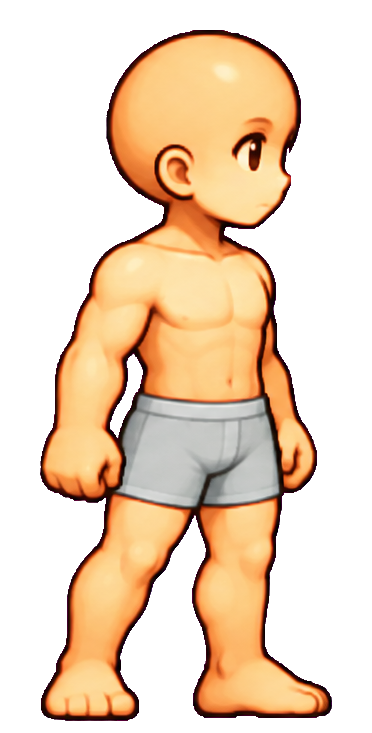
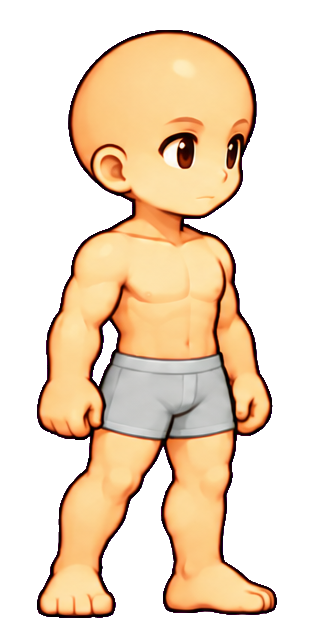
Base character (male): the new MapleStory-view boy — standing, a 4-frame walk (legs and arms alternate; the run plays it faster) and the 3-frame combat stance
- tools/base/naked_frames.py + sheets/naked_male.json: GPT drawings -> body/naked/<gender>/<move>.png strips (head / body matched in size across drawing sessions, hips on one x, feet on the ground; 'swap' gives the other leg's step); src/data/naked-anims.json lists each gender's drawn moves (anything else shows him standing).
- Combat stance (MapleStory 'alert'): after an attack or a hit he holds it for 4 s while standing still, 0.5 s a frame.
- Menus / portraits: the new boy's standing figure.

Claude-Session: https://claude.ai/code/session_019q8CMrxghbNzj8w42KsHoP

diff --git a/src/game/Body.ts b/src/game/Body.ts
@@ -98,7 +98,7 @@ export function preloadBodies(scene: Phaser.Scene, classes?: readonly string[], 
       LS(skillKey(cls, s.id), skillPath(cls, s.id)); M(`${skillKey(cls, s.id)}-w`, skillPath(cls, s.id), cls, cs?.w ?? CELL, cs?.h ?? CELL); if (cls === 'warrior') SHEET_PATH[skillKey(cls, s.id)] = skillPath(cls, s.id); }
   }
   for (const [cls, a] of Object.entries(ATLAS)) { if (!want(cls)) continue; L(atlasKey(cls), a.sheet, false); M(`${atlasKey(cls)}-w`, a.sheet, cls, 0, 0, true); }
-  if (want('warrior')) for (const g of ['male', 'female']) L(nakedKey(g), `assets/final/body/naked/${g}/idle.png`, true);
+  if (want('warrior')) for (const [g, anims] of Object.entries(NAKED)) for (const anim of Object.keys(anims)) L(nakedKey(g, anim), `assets/final/body/naked/${g}/${anim}.png`, true);
   if (want('warrior')) for (const anim of BASE_ANIMS) {
     const k = baseKey(anim); L(k, basePath(anim), true); M(`${k}-w`, basePath(anim), 'warrior'); SHEET_PATH[k] = basePath(anim);
     const cs = CELLS[anim], skill = !(anim in MOVE_COLS), W = cs?.w ?? CELL, H = cs?.h ?? CELL;
@@ -160,13 +160,21 @@ const animOf = (path: string) => (path.includes('/skills/') ? path.split('/').sl
 /** Base-sheet geometry: the original sheet's cell (W×H, cols) the 352-cells were cut from, for mask/layer remapping. */
 export const BASE_GEOM: Record<string, { W: number; H: number; cols: number; orig: string; ox: number; oy: number }> = {};
 let BASE_MODE = false;
-/** The clean base character (no hair / clothes / weapon), male or female — one standing frame until its moves are drawn. */
-const nakedKey = (g: string) => `naked-${g}-idle`;
+/** The clean base character (no hair / clothes / weapon), male or female. Its drawn moves are listed per gender in
+ *  naked-anims.json (tools/base/naked_frames.py); every other move shows him / her standing until it is drawn.
+ *  The run plays the walk frames faster. */
+import NAKED_LIST from '../data/naked-anims.json';
+const NAKED = NAKED_LIST as Record<string, Record<string, number>>;
+const nakedKey = (g: string, anim = 'idle') => `naked-${g}-${anim}`;
 const NAKED_HEAD_DROP = 10; // his bald head top sits this much (cell px) lower than the beginner's hair top
-function nakedPose(cls: string, dir: Dir, g: 'male' | 'female'): PoseFrame {
+function nakedPose(cls: string, dir: Dir, g: 'male' | 'female', q: PoseQuery): PoseFrame {
   const f = sheetPose(cls, dir, { k: 'loop', state: 'idle', t: 0, speed: 0 }); // the standing beginner's anchors (head, chest)
-  const key = nakedKey(g);
-  return { ...f, key, frame: 0, wkey: `${key}-w`, blade: null, bladeBehind: false, hair: null, head: null,
+  const has = NAKED[g] ?? {};
+  let key = nakedKey(g), frame = 0;
+  if (q.k === 'loop' && (q.state === 'walk' || q.state === 'run') && has.walk) {
+    const c = baseLoop(q.state, q.speed); key = nakedKey(g, 'walk'); frame = Math.floor((q.t * c.fps) / 1000) % has.walk;
+  } else if (q.k === 'loop' && q.state === 'alert' && has.alert) { key = nakedKey(g, 'alert'); frame = Math.floor(q.t / 500) % has.alert; } // 0.5 s a frame (Maple)
+  return { ...f, key, frame, wkey: `${key}-w`, blade: null, bladeBehind: false, hair: null, head: null,
     anchor: f.anchor ? f.anchor.map((v, i) => (i === 1 ? v + NAKED_HEAD_DROP * SHEET_SCALE : v)) : null };
 }
 /** Base body available for this animation (sheet baked)? */
@@ -212,7 +220,7 @@ const atlasCount = (cls: string, dir: Dir, act: AtlasAction) => ATLAS[cls].direc
 // ------------------------------------------------------------------ pose queries
 
 export type PoseQuery =
-  | { k: 'loop'; state: 'idle' | 'walk' | 'run'; t: number; speed: number }
+  | { k: 'loop'; state: 'idle' | 'walk' | 'run' | 'alert'; t: number; speed: number } // alert: combat stance after an attack / a hit (MapleStory)
   | { k: 'jump'; phase: 'takeoff' | 'rise' | 'apex' | 'fall' | 'land'; t: number }
   | { k: 'airAttack'; p: number }
   | { k: 'hurt'; p: number }
@@ -232,18 +240,21 @@ export const baseLoop = (state: 'walk' | 'run', speed: number): { n: number; fps
 const pick = <T,>(list: T[], p: number): T => list[Math.max(0, Math.min(list.length - 1, Math.floor(p * list.length)))];
 
 /** base = draw the beginner-clothes base body (fashion cosmetics) instead of the class armour, where baked. */
+/** Pose query once the combat stance is folded into standing (bodies without stance frames). */
+type BodyQuery = Exclude<PoseQuery, { k: 'loop' }> | { k: 'loop'; state: 'idle' | 'walk' | 'run'; t: number; speed: number };
 export function resolvePose(cls: ClassKey, dir: Dir, q: PoseQuery, base = false, gender?: 'male' | 'female'): PoseFrame {
   BASE_MODE = base && cls === 'warrior';
   try {
-    if (BASE_MODE && gender) return nakedPose(cls, dir, gender); // the clean base character
-    return isSheetClass(cls) ? sheetPose(cls, dir, q) : atlasPoseFor(cls, dir, q);
+    if (BASE_MODE && gender) return nakedPose(cls, dir, gender, q); // the clean base character
+    const b: BodyQuery = q.k === 'loop' && q.state === 'alert' ? { ...q, state: 'idle' } : (q as BodyQuery);
+    return isSheetClass(cls) ? sheetPose(cls, dir, b) : atlasPoseFor(cls, dir, b);
   } finally { BASE_MODE = false; }
 }
 
 const moveCols = (cls: string, st: MoveState) => (st === 'air_attack' && cls === 'warrior' ? 8 : MOVE_COLS[st]);
 function mv(cls: string, st: MoveState, dir: Dir, col: number): PoseFrame { return sheetFrame(sheetKey(cls, st), sheetPath(cls, st), dir, col, moveCols(cls, st)); }
 
-function sheetPose(cls: string, dir: Dir, q: PoseQuery): PoseFrame {
+function sheetPose(cls: string, dir: Dir, q: BodyQuery): PoseFrame {
   switch (q.k) {
     case 'loop': {
       if (q.state === 'idle') { // agreed look: the body never breathes / grows / shrinks — one still frame (separately painted idle frames flicker)
@@ -357,7 +368,7 @@ const CHAIN_SEQ: Record<string, Seq[]> = {
 };
 const MIN_ACTIVE = 110;
 
-function atlasPoseFor(cls: string, dir: Dir, q: PoseQuery): PoseFrame {
+function atlasPoseFor(cls: string, dir: Dir, q: BodyQuery): PoseFrame {
   switch (q.k) {
     case 'loop': {
       const fps = q.state === 'idle' ? 5 : q.state === 'walk' ? 8 * Math.max(0.7, Math.min(1.2, q.speed / 188)) : 10 * Math.max(0.75, Math.min(1.15, q.speed / 270));

diff --git a/src/scenes/LegacyCourtyardScene.ts b/src/scenes/LegacyCourtyardScene.ts
@@ -76,6 +76,9 @@ const ENEMY_SKILL: FinalSkill = {
   pvpMultiplier: 1, pveMultiplier: 1, description: '', unlockLevel: 1, relations: [],
 };
 
+/** How long he keeps the combat stance after an attack / a hit while standing still (MapleStory: a few seconds). */
+const ALERT_MS = 4000;
+
 export class LegacyCourtyardScene extends Phaser.Scene {
   // ---- local actor (read by QA)
   kin!: Kin;
@@ -379,6 +382,8 @@ export class LegacyCourtyardScene extends Phaser.Scene {
 
   busy(): boolean { return this.dead >= 0 || !this.body.canAct(this.simMs) || this.rt?.locked() === true; }
 
+  /** Combat stance until (sim ms): set by attacks and hits, shown while standing still. */
+  private alertUntil = -1;
   private setMode(m: Mode): void { if (m !== this.mode) { this.mode = m; this.modeT = 0; } }
 
   private stepPlayer(ms: number, now: number): void {
@@ -641,8 +646,11 @@ export class LegacyCourtyardScene extends Phaser.Scene {
 
   private renderPlayer(ms: number): void {
     const v = this.view!, k = this.kin, run = this.rt?.ownRun;
+    // MapleStory: after an attack or a hit he keeps the combat stance a few seconds while standing still
+    if (this.mode === 'skill' || this.mode === 'recover' || this.mode === 'hurt' || this.mode === 'launched' || this.mode === 'down' || this.mode === 'getup') this.alertUntil = this.simMs + ALERT_MS;
+    const mode = this.mode === 'idle' && this.simMs < this.alertUntil ? 'alert' : this.mode;
     const snap: AnimSnap = {
-      mode: this.mode, t: this.mode === 'walk' || this.mode === 'run' || this.mode === 'idle' ? this.loopT : this.modeT,
+      mode, t: this.mode === 'walk' || this.mode === 'run' || this.mode === 'idle' ? this.loopT : this.modeT,
       speed: Math.hypot(k.vx, k.vy), vz: k.vz, stunMs: 220,
       skill: run ? { id: run.skill.id, stage: run.stage, elapsed: run.elapsed, ...run.timings } : undefined,
     };

diff --git a/src/game/PoseState.ts b/src/game/PoseState.ts
@@ -3,7 +3,7 @@
 // rise → apex → fall → landing, hit → hurt, launch → air hurt → knockdown → getup.
 import { PoseQuery } from './Body';
 
-export type Mode = 'idle' | 'walk' | 'run' | 'takeoff' | 'air' | 'land' | 'skill' | 'recover' | 'hurt' | 'launched' | 'down' | 'getup' | 'dead';
+export type Mode = 'idle' | 'alert' | 'walk' | 'run' | 'takeoff' | 'air' | 'land' | 'skill' | 'recover' | 'hurt' | 'launched' | 'down' | 'getup' | 'dead';
 
 export interface SkillPose { id: string; stage: number; elapsed: number; startup: number; active: number; recovery: number }
 
@@ -23,6 +23,7 @@ export const LAND_MS = 90;
 export function poseQuery(s: AnimSnap): PoseQuery {
   switch (s.mode) {
     case 'idle': return { k: 'loop', state: 'idle', t: s.t, speed: 0 };
+    case 'alert': return { k: 'loop', state: 'alert', t: s.t, speed: 0 }; // standing still in the combat stance
     case 'walk': return { k: 'loop', state: 'walk', t: s.t, speed: s.speed };
     case 'run': return { k: 'loop', state: 'run', t: s.t, speed: s.speed };
     case 'takeoff': return { k: 'jump', phase: 'takeoff', t: s.t };

diff --git a/src/config/layout.ts b/src/config/layout.ts
@@ -147,7 +147,7 @@ export const CHARACTER_CREATE = {
 /** classId/appearanceId -> full-body preview (Character Select stage + slot portrait crop in source pixels). */
 export const CHARACTER_PREVIEWS: Record<string, { key: string; file: string; width: number; height: number; crop: { x: number; y: number; w: number }; portrait?: string }> = {
   // the clean base character (menus show him / her standing; portraits crop the head)
-  'base/male': { key: 'base.male', file: 'assets/characters/base/Base_Male.png', width: 372, height: 733, crop: { x: 86, y: 14, w: 234 } },
+  'base/male': { key: 'base.male', file: 'assets/characters/base/Base_Male.png', width: 317, height: 630, crop: { x: 48, y: 14, w: 228 } },
   'base/female': { key: 'base.female', file: 'assets/characters/base/Base_Female.png', width: 365, height: 733, crop: { x: 70, y: 14, w: 232 } },
   'warrior/warrior_default': {
     key: 'characterCreate.warriorPreview', file: 'assets/Warrior_Preview.png', width: 1024, height: 1536,

diff --git a/tools/base/naked_frames.py b/tools/base/naked_frames.py
@@ -1,0 +1,140 @@
+# naked_frames.py <sheet json> : the clean base character's animations (male / female) from GPT drawings → game strips
+#   public/assets/final/body/naked/<gender>/<anim>.png (+ _m.png labels: skin 60, top 80, shorts 200), one 352 cell per
+#   frame, feet origin 176,310; src/data/naked-anims.json lists what each gender has (the game falls back to standing).
+# Per figure: magenta keyed, scaled so the HEAD is the same size in every frame (GPT draws each image at its own size;
+# the standing frame sets the scale: head top to sole = FIG_H), hips (shorts) on one x, lowest foot on the ground.
+# "swap": the near / far leg shading is exchanged (back leg gets the near leg's tones, front leg the far one's) — GPT
+# keeps drawing the near leg in front, this gives the step of the other leg. The run plays the walk frames faster.
+import json, os, sys, numpy as np
+from PIL import Image
+from scipy import ndimage as nd
+H = os.path.dirname(os.path.abspath(__file__)); G = H + '/../../'; S = 352; GROUND = 310
+src = open(H + '/bake_pose.py').read()
+exec(src[src.index('def keyed('):src.index('def labels(')])          # keyed() of the pose baker
+FIG_H = 185
+spec = json.load(open(sys.argv[1])); gender = spec['gender']
+OUT = G + 'public/assets/final/body/naked/' + gender + '/'
+bm = np.array(Image.open(G + 'public/assets/final/body/warrior/base/idle_m.png'))[:, :S, 0]
+HIPX = float(np.median(np.nonzero(bm == 200)[1]))                     # where the beginner always stood
+_cache = {}
+
+
+def figures(path):
+  if path in _cache: return _cache[path]
+  gi = np.array(Image.open(H + '/gpt/' + path).convert('RGB')).astype(np.float32)
+  e, a = keyed(gi); fig = a > 0.5
+  L, n = nd.label(fig); sz = nd.sum(fig, L, range(1, n + 1))
+  big = [1 + i for i in range(n) if sz[i] > 0.25 * sz.max()]
+  figs = []
+  for i in sorted(big, key=lambda i: np.nonzero(L == i)[1].mean()):
+    m = L == i; ys, xs = np.nonzero(m)
+    y0, y1, x0, x1 = ys.min(), ys.max(), xs.min(), xs.max()
+    head = m[y0:y0 + int((y1 - y0) * 0.28)]
+    hx = np.nonzero(head.any(0))[0]
+    R_, G_, B_ = [e[..., k] for k in range(3)]; mx_ = np.maximum(np.maximum(R_, G_), B_); mn_ = np.minimum(np.minimum(R_, G_), B_)
+    grey = m & ((mx_ - mn_) / np.maximum(mx_, 1) < 0.13) & (mx_ > 105) & (np.arange(m.shape[0])[:, None] > y0 + (y1 - y0) * 0.45)
+    gx = np.nonzero(grey.any(0))[0]
+    figs.append(dict(gi=gi, box=(x0, y0, x1, y1), headw=float(hx.max() - hx.min()), shortsw=float(gx.max() - gx.min()) if len(gx) else 0.0))
+  _cache[path] = figs
+  return figs
+
+
+def split_legs(e, fig, lab):
+  """Leg pixels below the shorts → (back leg, front leg): skin areas parted by the dark outline between them."""
+  R, Gc, B = e[..., 0], e[..., 1], e[..., 2]; mx = np.maximum(np.maximum(R, Gc), B)
+  sh = np.nonzero(lab == 200); low = np.arange(S)[:, None] > np.percentile(sh[0], 90)
+  skin = fig & (lab == 60) & low & (mx >= 120)
+  L, n = nd.label(skin); sz = nd.sum(skin, L, range(1, n + 1))
+  two = sorted([1 + i for i in np.argsort(-sz)[:2]], key=lambda i: np.nonzero(L == i)[1].mean())
+  back, front = L == two[0], L == two[1]
+  rest = fig & (lab == 60) & low & ~back & ~front                      # outline pixels: to the nearest leg
+  db = nd.distance_transform_edt(~back); df = nd.distance_transform_edt(~front)
+  back |= rest & (db <= df); front |= rest & (df < db)
+  return back, front
+
+
+def label(e, a):
+  fig = a > 0.5
+  R, Gc, B = e[..., 0], e[..., 1], e[..., 2]
+  mx = np.maximum(np.maximum(R, Gc), B); mn = np.minimum(np.minimum(R, Gc), B); sat = (mx - mn) / np.maximum(mx, 1)
+  grey = nd.binary_opening(fig & (sat < 0.13) & (mx > 105), iterations=1)
+  lab = np.where(fig, 60, 0).astype(np.uint8)
+  gL, gn = nd.label(grey); ys = np.nonzero(fig.any(1))[0]; top, bot = ys.min(), ys.max()
+  for k in range(1, gn + 1):
+    cm = gL == k
+    if cm.sum() < 40: continue
+    part = 80 if np.nonzero(cm)[0].mean() < top + (bot - top) * 0.47 else 200
+    lab[nd.binary_fill_holes(nd.binary_closing(cm, iterations=2)) & fig] = part
+  for part in (80, 200):
+    lab[nd.binary_dilation(lab == part, iterations=2) & fig & (lab == 60) & (mx < 120)] = part
+  return fig, lab
+
+
+def frame(path, idx, sc, opts=()):
+  f = figures(path)[idx]; x0, y0, x1, y1 = f['box']; gi = f['gi']
+  pad = 24
+  X0, Y0 = max(0, x0 - pad), max(0, y0 - pad)
+  sub = gi[Y0:y1 + pad, X0:x1 + pad]
+  h, w = sub.shape[:2]
+  im = Image.fromarray(sub.clip(0, 255).astype(np.uint8)).resize((max(1, int(round(w * sc))), max(1, int(round(h * sc)))), Image.LANCZOS)
+  canvas = Image.new('RGB', (S, S), (255, 0, 255)); canvas.paste(im, (int(S / 2 - im.width / 2), int(GROUND - im.height + pad * sc)))
+  e, a = keyed(np.array(canvas).astype(np.float32))
+  fig, lab = label(e, a)
+  if 'swap' in opts:
+    back, front = split_legs(e, fig, lab)
+    deep = np.arange(S)[:, None] > np.percentile(np.nonzero(lab == 200)[0], 97) + 3
+    mb, mf = e[back & deep & (e.max(-1) > 120)].mean(0), e[front & deep & (e.max(-1) > 120)].mean(0)
+    e = np.where(back[..., None], np.clip(e * (mf / mb), 0, 255), np.where(front[..., None], np.clip(e * (mb / mf), 0, 255), e))
+  sh = np.nonzero(lab == 200)
+  dx = int(round(HIPX - np.median(sh[1]))); dy = GROUND - int(np.nonzero(fig.any(1))[0].max())
+  r = lambda v: np.roll(np.roll(v, dy, 0), dx, 1)
+  return r(e), r(a), r(fig), r(lab)
+
+
+idle_path, idle_idx = spec['anims']['idle'][0][:2]
+fi = figures(idle_path)[idle_idx]
+SC0 = FIG_H / (fi['box'][3] - fi['box'][1]); HEADW = fi['headw'] * SC0; SHORTSW = fi['shortsw'] * SC0     # the standing frame sets the size
+os.makedirs(OUT, exist_ok=True)
+strips = {}
+for anim, cells in spec['anims'].items():
+  n = len(cells); px = np.zeros((S, n * S, 4), np.uint8); mk = np.zeros((S, n * S, 4), np.uint8)
+  for c, cell in enumerate(cells):
+    path, idx = cell[0], cell[1]
+    sc = HEADW / figures(path)[idx]['headw']
+    tall = [o for o in cell[2:] if str(o).startswith('tall')]
+    if tall:                                                   # one scale for the move: its tallest frame = ratio x standing height
+      hmax = max(figures(cc[0])[cc[1]]['box'][3] - figures(cc[0])[cc[1]]['box'][1] for cc in cells)
+      sc = FIG_H * float(tall[0][4:]) / hmax
+    like = [o for o in cell[2:] if str(o).startswith('like')]
+    if like:                                                   # same pose as cell N of this move: same height as it
+      rp, ri = cells[int(like[0][4:])][:2]; rf = figures(rp)[ri]; tf = figures(path)[idx]
+      sc = (HEADW / rf['headw']) * (rf['box'][3] - rf['box'][1]) / (tf['box'][3] - tf['box'][1])
+    e, a, fig, lab = frame(path, idx, sc, cell[2:])
+    px[:, c * S:(c + 1) * S, :3] = e.clip(0, 255).astype(np.uint8); px[:, c * S:(c + 1) * S, 3] = np.where(fig, (a * 255).clip(0, 255), 0).astype(np.uint8)
+    mk[:, c * S:(c + 1) * S, 0] = np.where(fig, lab, 0); mk[:, c * S:(c + 1) * S, 3] = 255
+  Image.fromarray(px).save(OUT + anim + '.png', optimize=True); Image.fromarray(mk).save(OUT + anim + '_m.png', optimize=True)
+  strips[anim] = px
+  print(gender, anim, n, 'frames')
+# what each gender has (the game draws standing for the rest)
+lp = G + 'src/data/naked-anims.json'
+have = json.load(open(lp)) if os.path.exists(lp) else {}
+have[gender] = {a: len(c) for a, c in spec['anims'].items()}
+json.dump(have, open(lp, 'w'), indent=1)
+# menu image (full size standing figure) for character select / create / portraits
+pp, pi = spec.get('preview', spec['anims']['idle'][0][:2])
+f = figures(pp)[pi]; x0, y0, x1, y1 = f['box']
+gh, gw = f['gi'].shape[:2]
+e, a = keyed(f['gi'][max(0, y0 - 30):min(gh, y1 + 13), max(0, x0 - 40):min(gw, x1 + 41)])
+fig = a > 0.5; L, n = nd.label(fig); sz = nd.sum(fig, L, range(1, n + 1)); fig = L == 1 + int(np.argmax(sz))
+Image.fromarray(np.dstack([e, np.where(fig, a * 255, 0)]).clip(0, 255).astype(np.uint8)).save(G + f'public/assets/characters/base/Base_{gender.capitalize()}.png', optimize=True)
+# QC: every strip on the game background
+rows = []
+for anim, px in strips.items():
+  n = px.shape[1] // S; row = Image.new('RGB', (n * 220, 230), (62, 66, 76))
+  for c in range(n):
+    bg = Image.new('RGBA', (S, S), (62, 66, 76, 255)); bg.alpha_composite(Image.fromarray(px[:, c * S:(c + 1) * S]))
+    row.paste(bg.convert('RGB').crop((66, 95, 286, 325)), (c * 220, 0))
+  rows.append(row)
+qc = Image.new('RGB', (max(r.width for r in rows), sum(r.height for r in rows)), (30, 30, 30)); y = 0
+for r in rows: qc.paste(r, (0, y)); y += r.height
+qc.resize((qc.width * 2, qc.height * 2), Image.LANCZOS).save(G + f'tools/base/qc/naked_{gender}.png')
